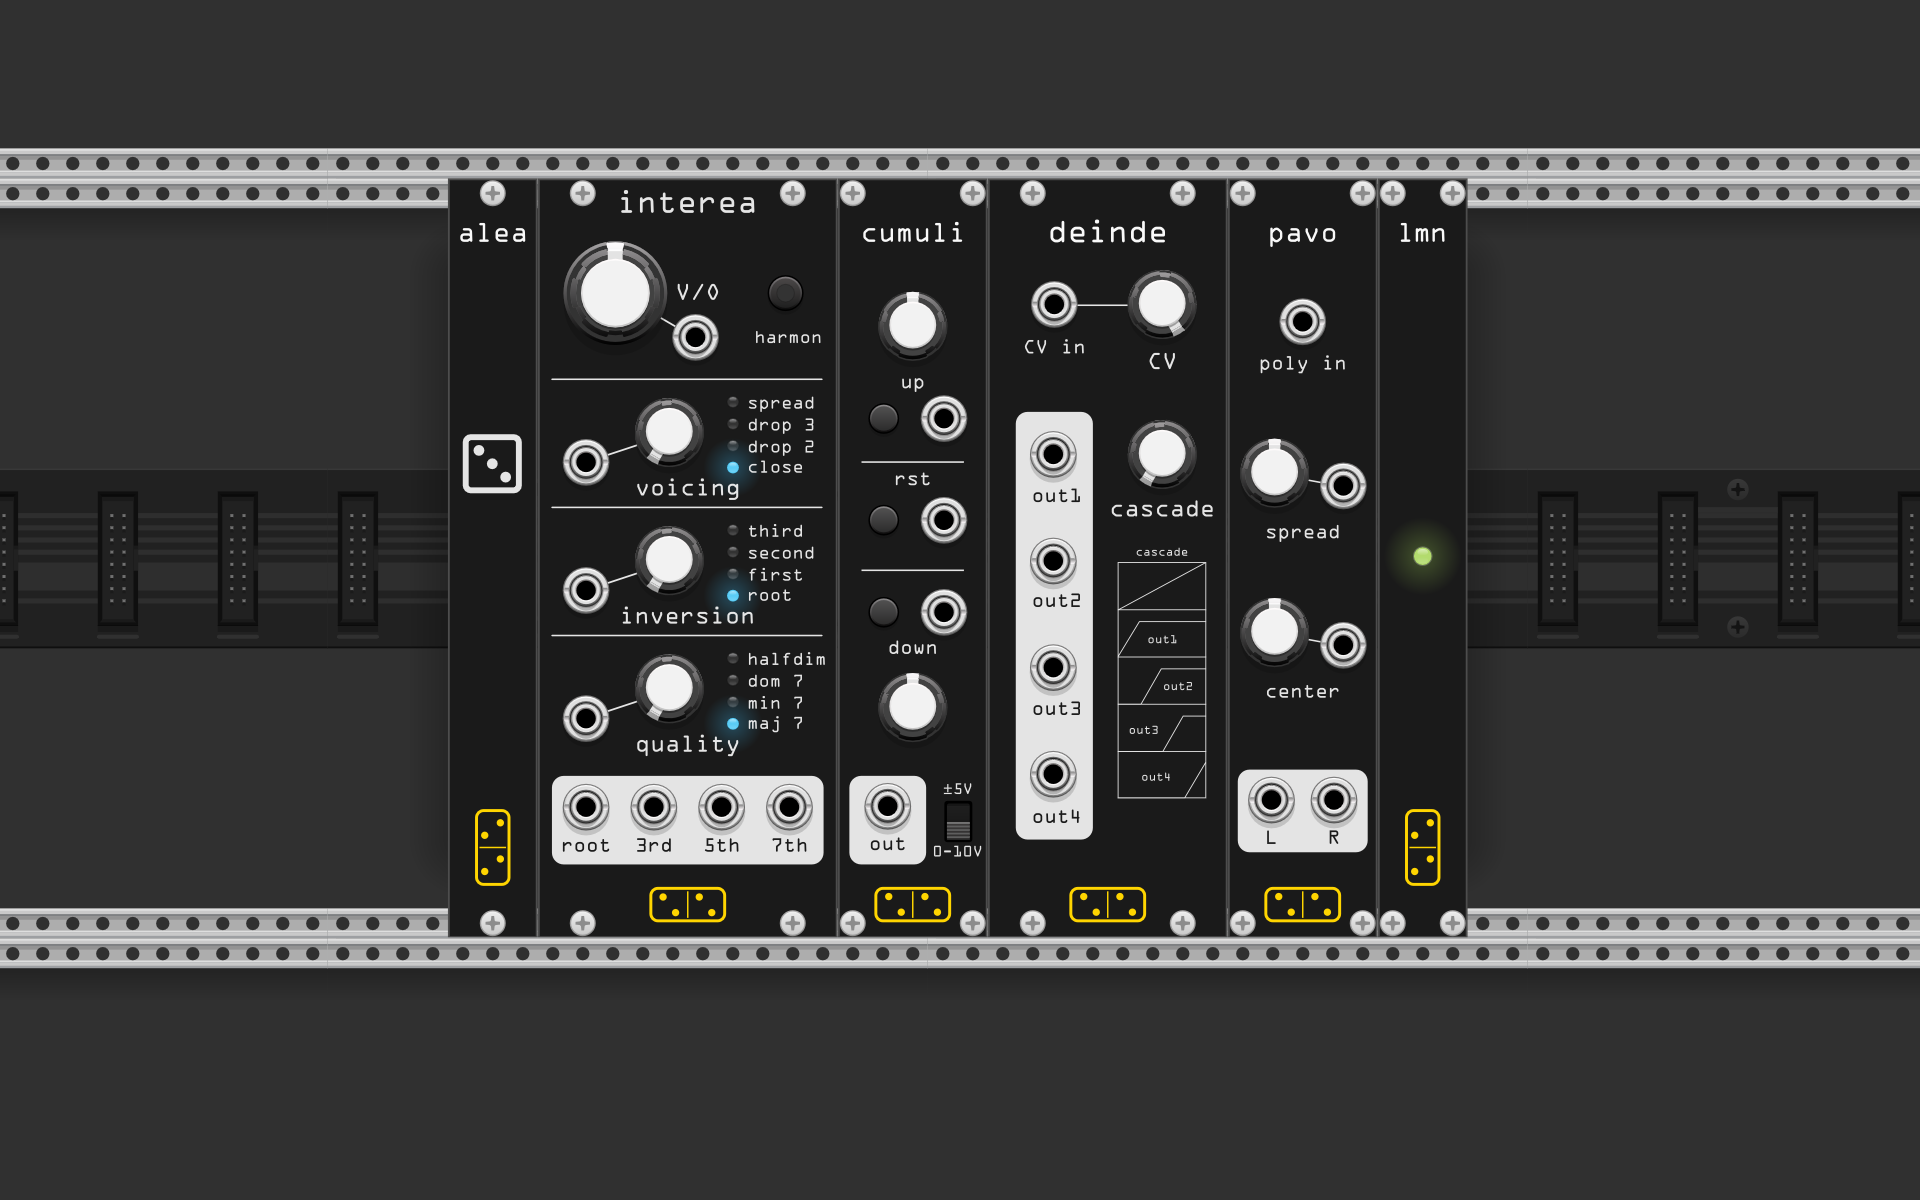
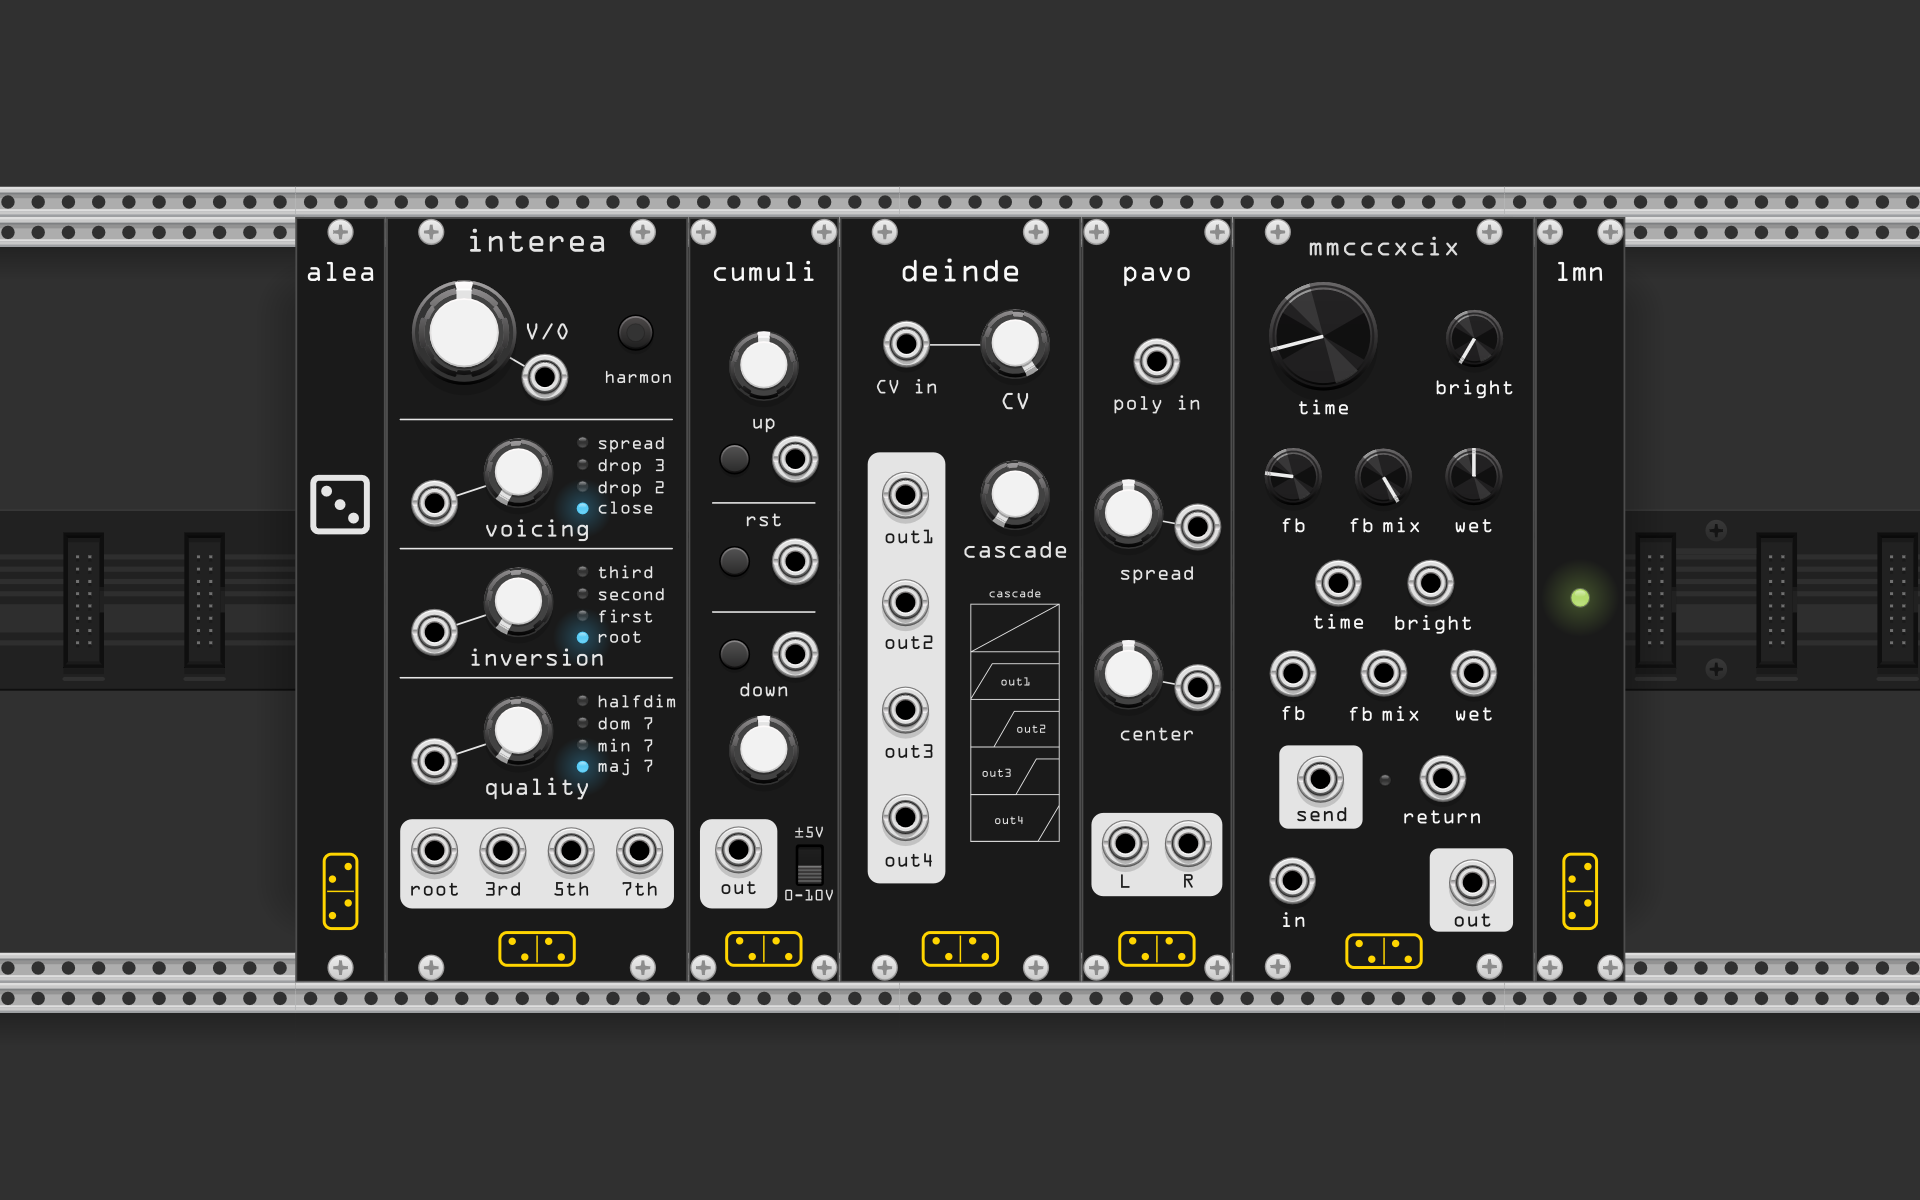
docs(MMCCCXCIX): add module doc, update readme and plugin.json manualUrl

diff --git a/doc/mmcccxcix.md b/doc/mmcccxcix.md
@@ -1,0 +1,41 @@
+# MMCCCXCIX
+
+![MMCCCXCIX](../img/mmcccxcix.png)
+
+*MMCCCXCIX* is a digital emulation of the PT2399 delay chip, a cheap BBD-style IC that gave countless guitar pedals their characteristic lo-fi echo. The model captures the chip's limited delay range, self-oscillation character, and tonal coloration, with an external feedback loop for inserting effects into the repeat path.
+
+## Controls
+
+| control | range | description |
+|---------|-------|-------------|
+| **time** | 35–1175 ms | Delay time. The knob uses a quadratic curve for finer control at short delays. |
+| **bright** | 0–100% | Filter brightness. Lower values darken the repeats; higher values keep them crisp. |
+| **fb** | 0–180% | Feedback amount. Above 100% the delay self-oscillates. |
+| **fb mix** | 0–100% | Blend between internal feedback (0%) and the signal coming back from the return jack (100%). Has no effect when the return jack is unpatched. |
+| **wet** | 0–100% | Dry/wet mix. |
+
+## CV inputs
+
+Each parameter has a dedicated CV input. The signal is added to the knob position and clamped to the valid range.
+
+| input | scale |
+|-------|-------|
+| time CV | 10V = full range |
+| bright CV | 10V = full range |
+| fb CV | 10V = full range (0–1.8) |
+| fb mix CV | 10V = full range |
+| wet CV | 10V = full range |
+
+## Feedback send / return loop
+
+The **send** output carries the pre-filter feedback signal at Eurorack level (±10V). Patch it through any processor — filter, distortion, wavefolder — and return the result to the **return** input.
+
+- When the **return** jack is unpatched, the loop is bypassed and internal feedback is used regardless of the **fb mix** knob.
+- When the **return** jack is patched, the green LED lights up and **fb mix** blends between internal feedback (0%) and the return signal (100%).
+
+## Audio path
+
+- **in** — audio input (±10V)
+- **out** — processed output. A soft compressor on the wet signal limits self-oscillation amplitude.
+
+The dry signal is taken directly from the input and mixed with the processed wet signal according to the **wet** knob.

diff --git a/readme.md b/readme.md
@@ -16,6 +16,7 @@ A collection of VCV Rack modules.
 | [deinde](doc/deinde.md) | Quad cascading addressable attack-hold envelope | [doc/deinde.md](doc/deinde.md) |
 | [pavo](doc/pavo.md) | Polyphonic stereo spreader (Splay Ugen) | [doc/pavo.md](doc/pavo.md) |
 | [limen](doc/limen.md) | TCP+JSON control interface for VCV Rack | [doc/limen.md](doc/limen.md) |
+| [MMCCCXCIX](doc/mmcccxcix.md) | PT2399 delay chip emulation with feedback send/return loop | [doc/mmcccxcix.md](doc/mmcccxcix.md) |
 
 ## Changelog
 
@@ -33,6 +34,7 @@ Being Italian, giving the modules English names felt off, but Italian names woul
 | **deinde** | then, next, afterwards |
 | **pavo** | peacock (whose spreading tail mirrors the stereo spread) |
 | **limen** | threshold, doorway |
+| **MMCCCXCIX** | 2399 in Roman numerals — the PT2399 chip this module emulates |
 
 ## Author
 
